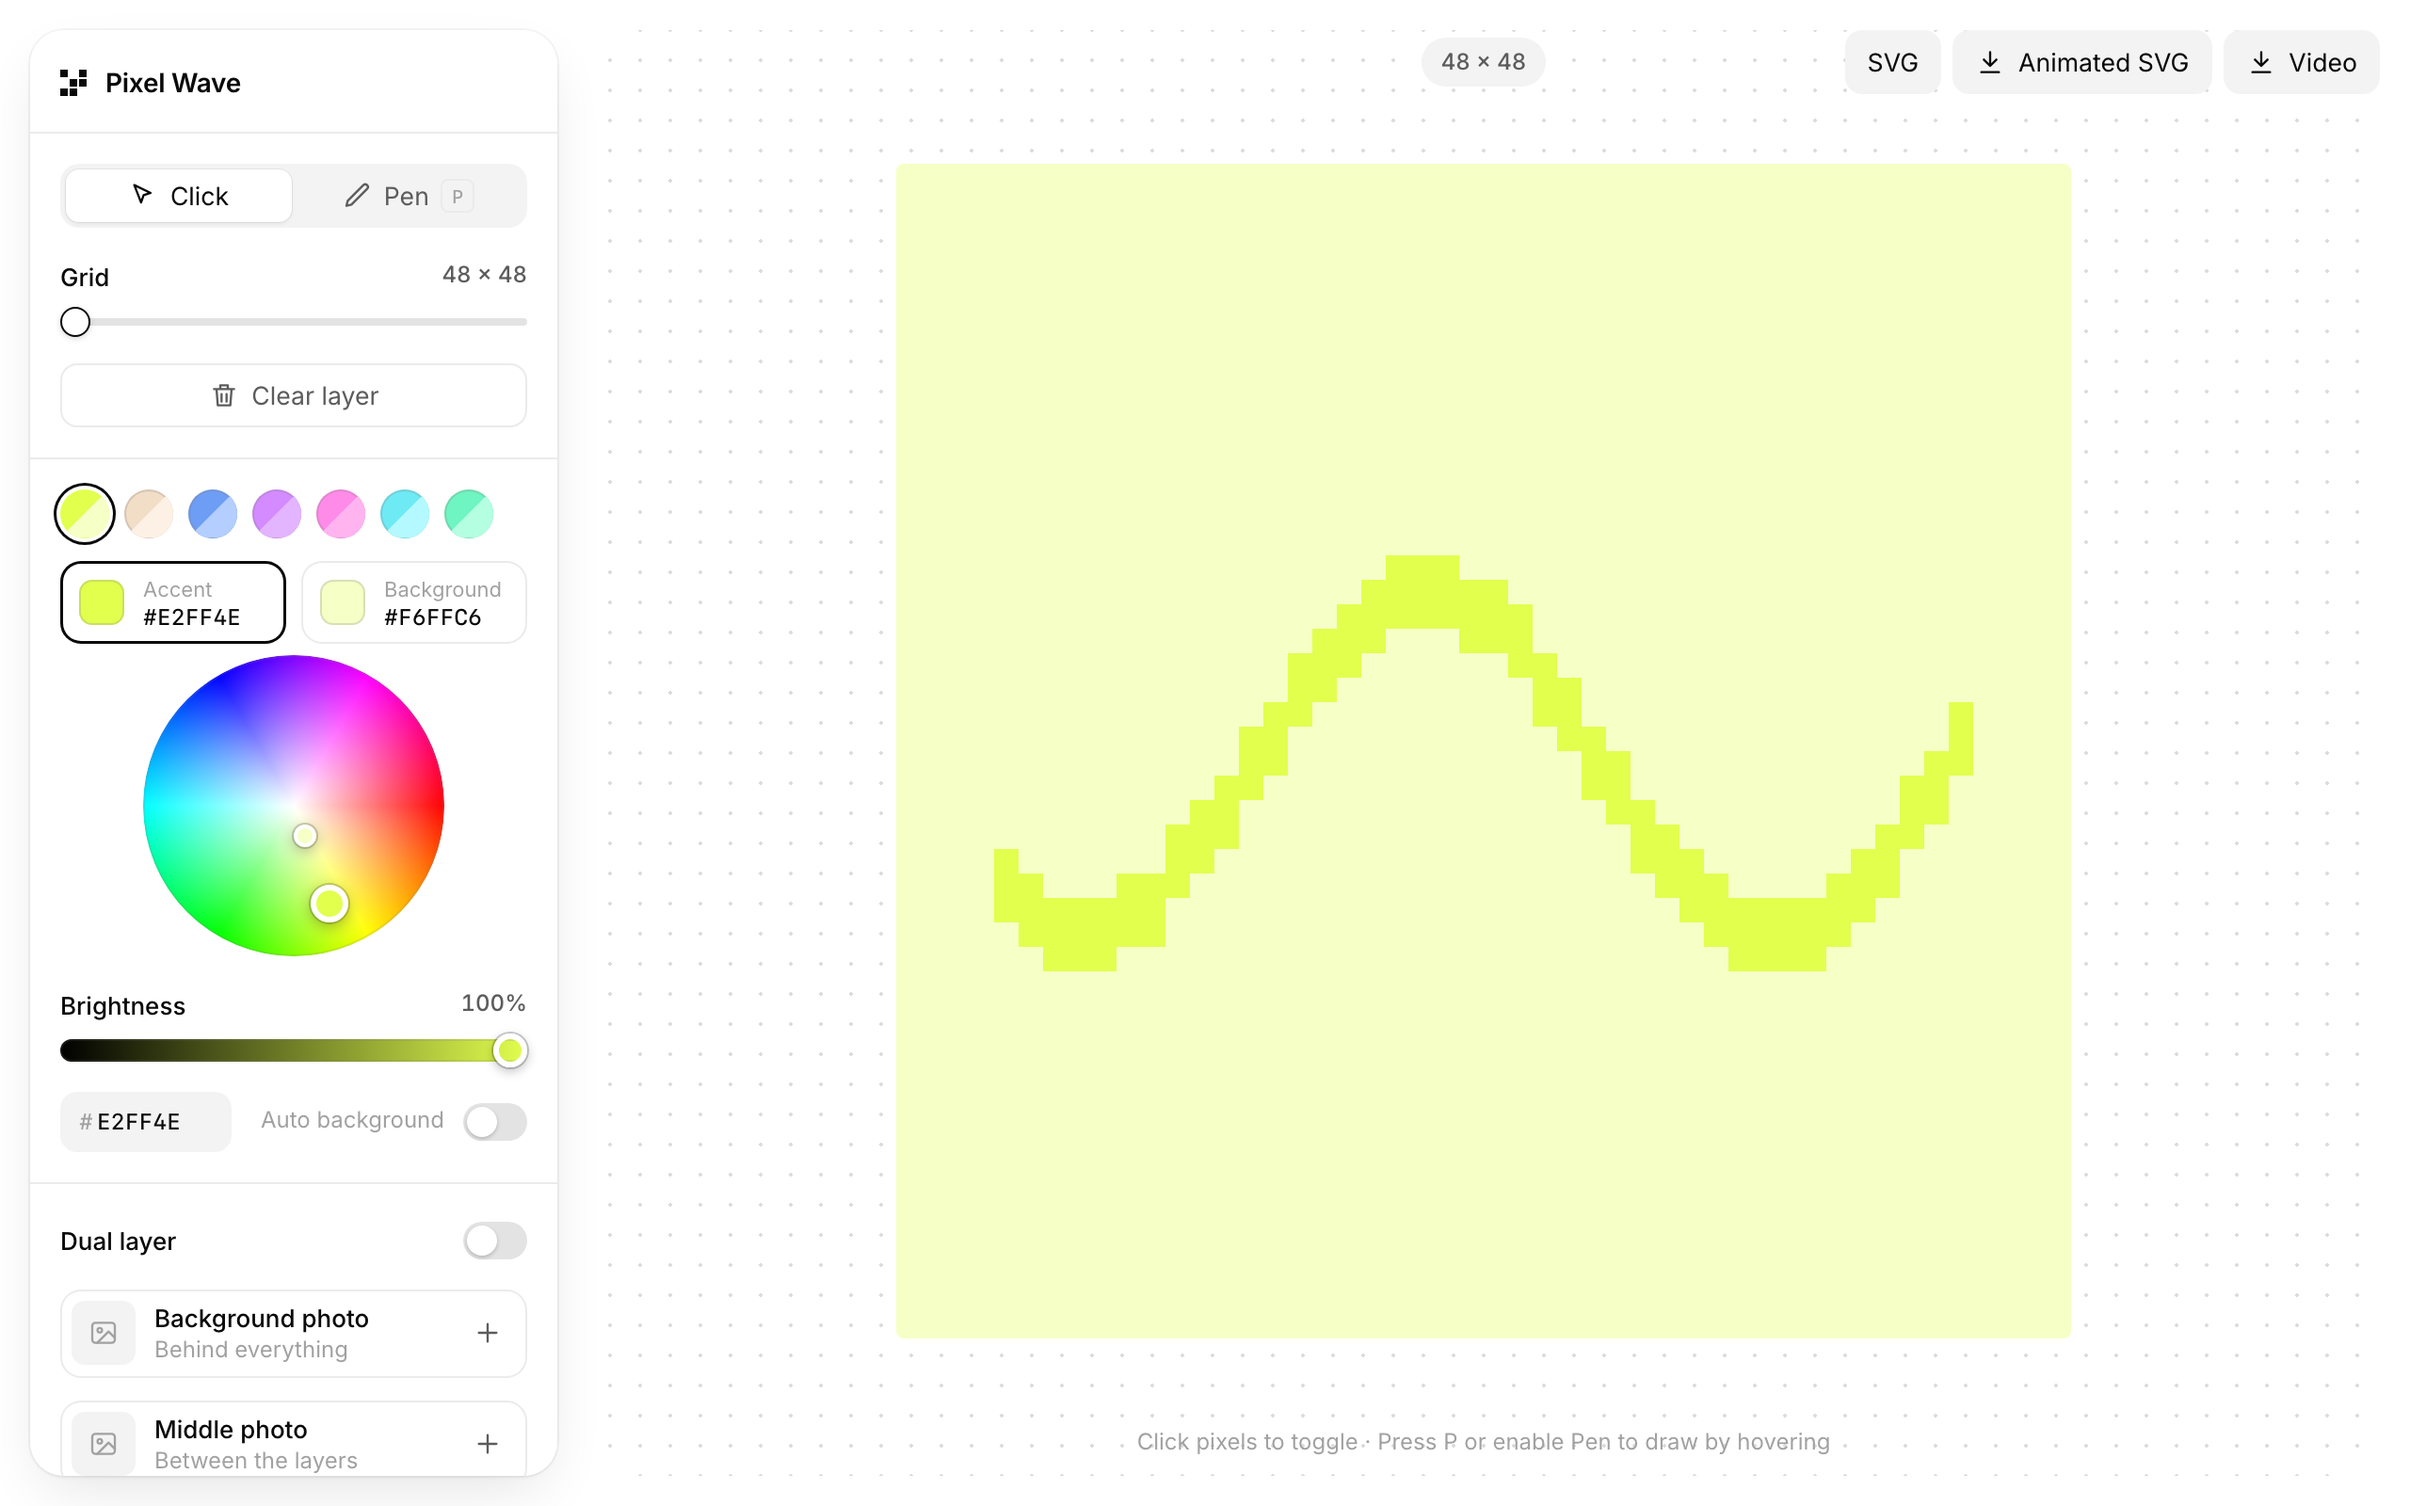
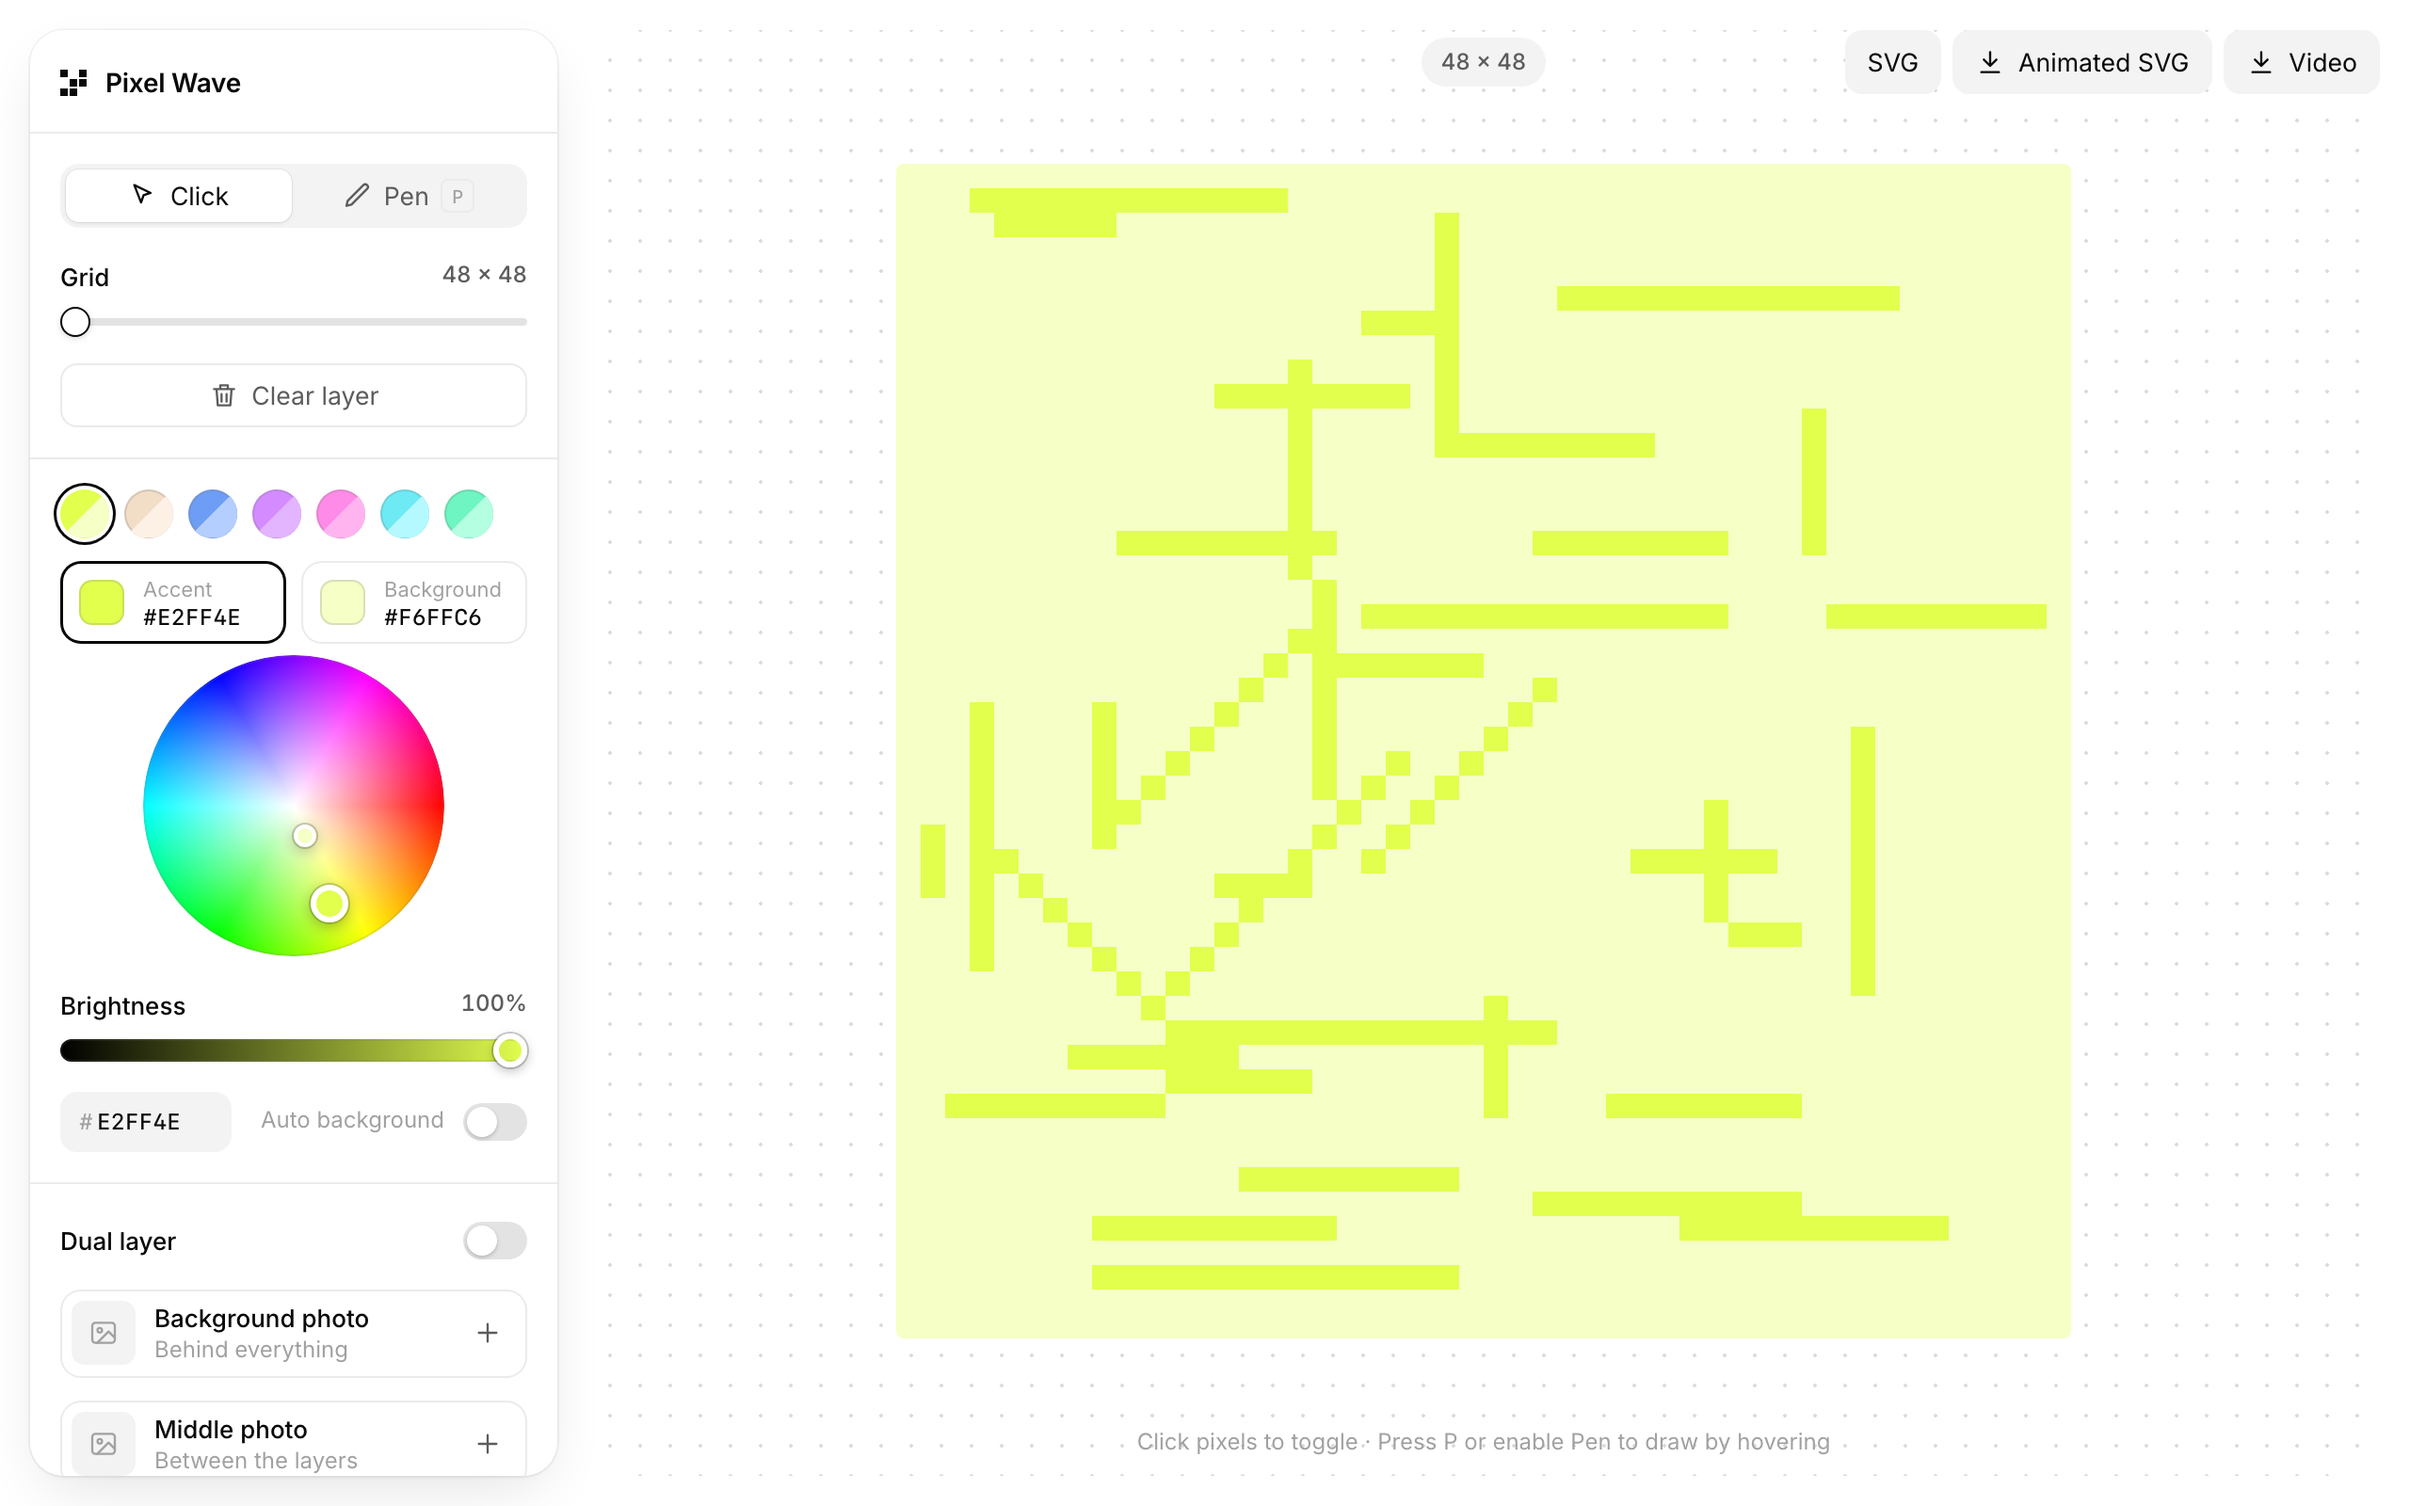
Use an abstract line pattern in the README preview
Scattered horizontal, vertical and diagonal streaks across the whole
canvas show off the grid better than a single wave in the middle.

diff --git a/README.md b/README.md
@@ -4,7 +4,7 @@ Draw pixel art on a grid, animate it as a scrolling wave, and export it as SVG o
 
 **[▶ Try it live](https://jmackow.github.io/pixel-wave/)**
 
-[![Pixel Wave: controls on the left, a pixel wave drawn on the canvas on the right](assets/preview.png)](https://jmackow.github.io/pixel-wave/)
+[![Pixel Wave: controls on the left, an abstract pattern of pixel lines on the canvas on the right](assets/preview.png)](https://jmackow.github.io/pixel-wave/)
 
 ## Run it locally
 
